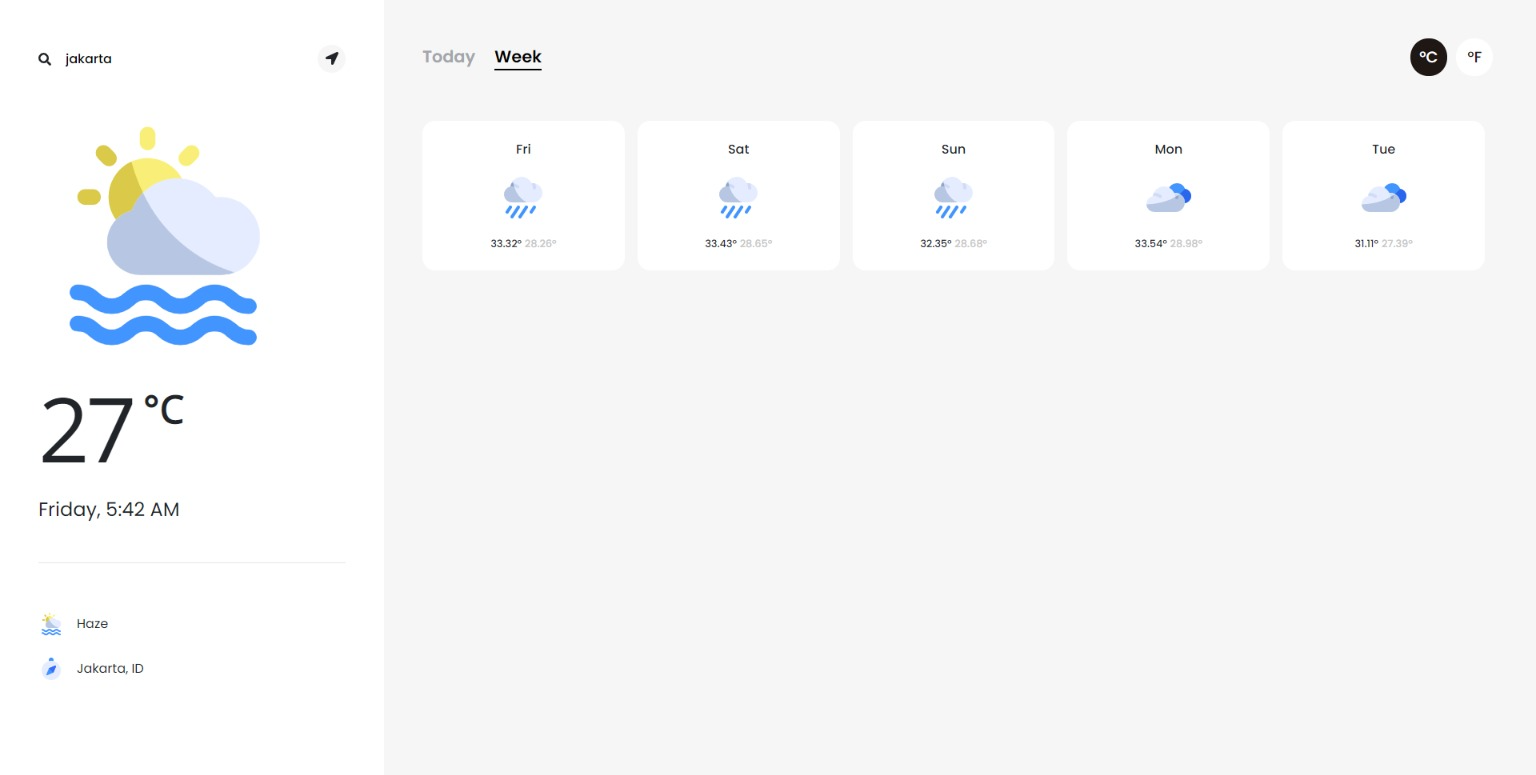
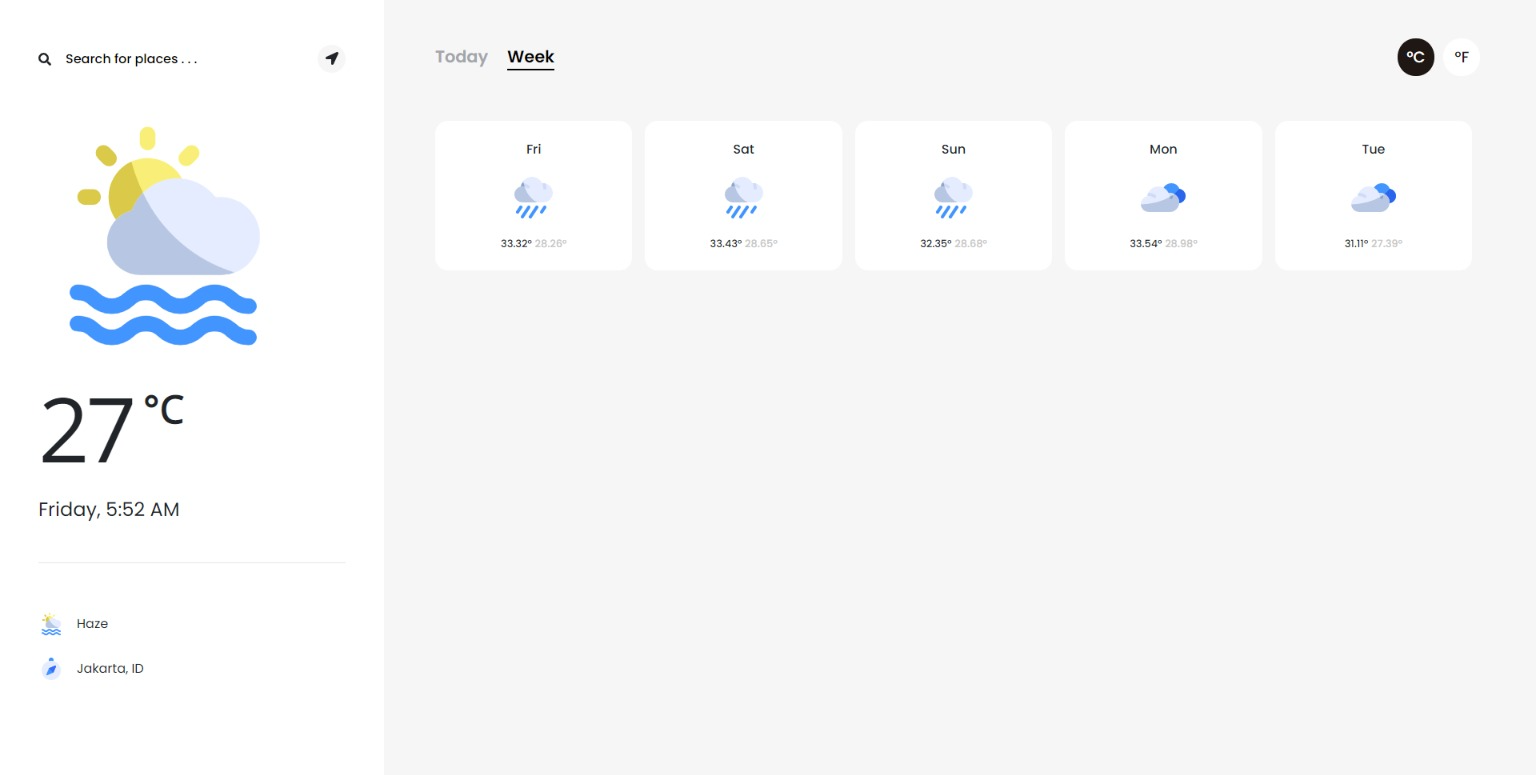
add consistency

diff --git a/src/hoc/Layout/Layout.jsx b/src/hoc/Layout/Layout.jsx
@@ -19,7 +19,7 @@ function Layout(props) {
         <TodayForecast data={props.today_data} />
       </Col>
       {/* Dashboard */}
-      <DashboardCol md="9" className="p-5">
+      <DashboardCol md="9" style={{ padding: "3rem 4rem" }}>
         {props.children}
       </DashboardCol>
     </Row>
